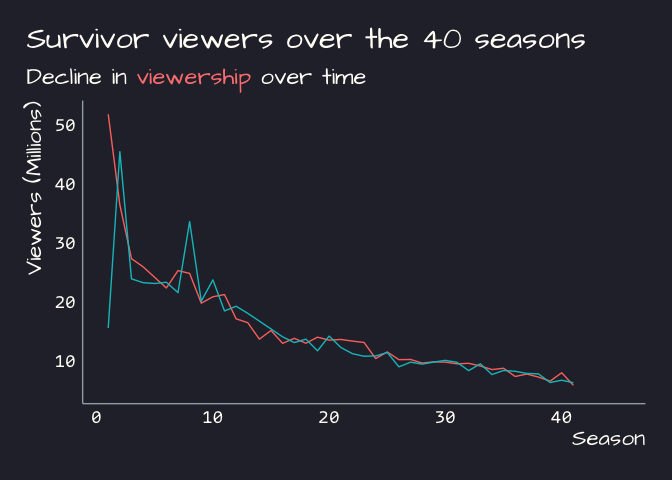
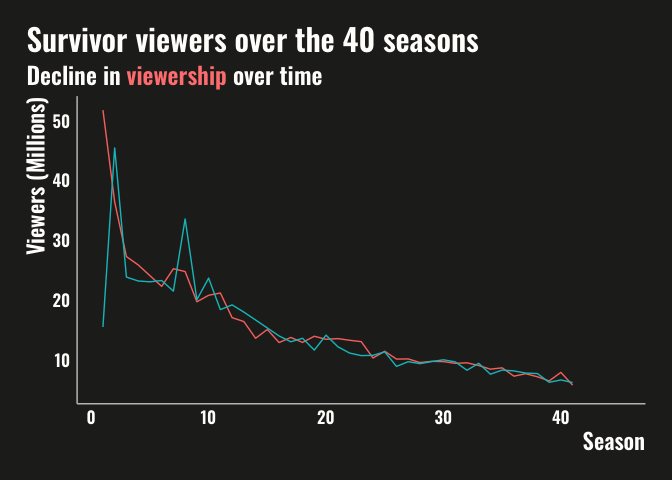
add unl

Changed region(s): [[0.0312, 0.0312, 0.9688, 0.9375], [0.1562, 0.25, 0.7812, 0.7812]]

diff --git a/README.md b/README.md
@@ -49,6 +49,7 @@ Themes use two different color palette:
 ``` r
 scales::show_col(emwthemes:::emw_pal)
 scales::show_col(emwthemes:::dark_pal)
+scaled::show_col(emwthemes:::unl_pal)
 ```
 
 ### Bright Color Palette (default for `theme_emw()`)
@@ -115,8 +116,7 @@ line <- season_summary |>
     x = "Season",
     y = "Viewers (Millions)",
     colour = "Episode"
-  ) +
-  theme_emw() 
+  ) 
 ```
 
 <figure>
@@ -229,7 +229,8 @@ line_md <- season_summary |>
 ``` r
 line_md +
   theme_em(md = TRUE) 
-#> Warning: Removed 6 rows containing missing values (`geom_line()`).
+#> Warning: Removed 6 rows containing missing values or values outside the scale range
+#> (`geom_line()`).
 ```
 
 <img src="man/figures/README-line-main-1.png" width="100%" style="display: block; margin: auto;" />
@@ -244,7 +245,8 @@ alt="Example plot with theme_em()" />
 line_md +
   theme_em_dark(md = TRUE,
                 with.line = TRUE) 
-#> Warning: Removed 6 rows containing missing values (`geom_line()`).
+#> Warning: Removed 6 rows containing missing values or values outside the scale range
+#> (`geom_line()`).
 ```
 
 <img src="man/figures/README-line-dark-1.png" width="100%" style="display: block; margin: auto;" />
